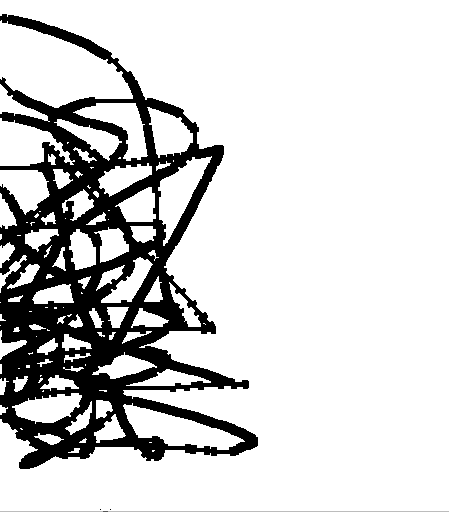
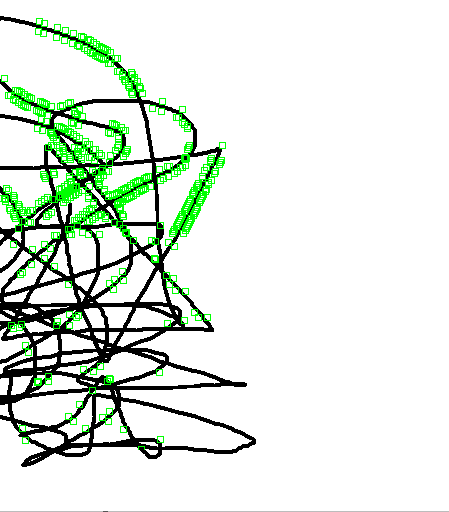
add block CornerImage

Changed region(s): [[0.0, 0.0312, 0.5924, 0.9375]]

diff --git a/HarrisCornerDetector.py b/HarrisCornerDetector.py
@@ -54,12 +54,11 @@ def main():
                     #add corner to file
                     CornerList.append([x,y,Corner_r])
                     #add corner to output image 
-                    Color_Img.itemset((y, x, 0), 0)
-                    Color_Img.itemset((y, x, 1), 255)
-                    Color_Img.itemset((y, x, 2), 0)
+                    #Color_Img.itemset((y, x, 0), 0)
+                    #Color_Img.itemset((y, x, 1), 255)
+                    #Color_Img.itemset((y, x, 2), 0)
 
-        if Color_Img is not None:
-            cv.imwrite("CornerImage.png", Color_Img)
+        
         ##sort corner list
         CornerList.sort(key=operator.itemgetter(2))
         ##openFile        
@@ -67,6 +66,23 @@ def main():
         
         for i in range(500):
             CornerFile.write(str(CornerList[i][0]) + ' ' + str(CornerList[i][1]) + ' ' + str(CornerList[i][2]) + '\n')
+
+            for x in range(1,8):
+                for y in range(1,8):
+                    if x == 1 or x == 7 or y == 1 or y == 7:
+                        if CornerList[i][1] + y - 4 >= 0 and CornerList[i][1] + y - 4 <= Color_Img.shape[1] and CornerList[i][0] + x - 4 >= 0 and CornerList[i][0] + x - 4 <= Color_Img.shape[0]:
+                            Color_Img.itemset((int(CornerList[i][1] + y - 4),int( CornerList[i][0] + x - 4), 0), 0)
+                            Color_Img.itemset((int(CornerList[i][1] + y - 4),int( CornerList[i][0] + x - 4), 1), 255)
+                            Color_Img.itemset((int(CornerList[i][1] + y - 4),int( CornerList[i][0] + x - 4), 2), 0)
+            
+            #Color_Img.itemset((y, x, 1), 255)
+            #Color_Img.itemset((y, x, 2), 0)
+
+
+
+        if Color_Img is not None:
+            cv.imwrite("CornerImage.png", Color_Img)
+
         CornerFile.close()
 
 if __name__ == "__main__":
